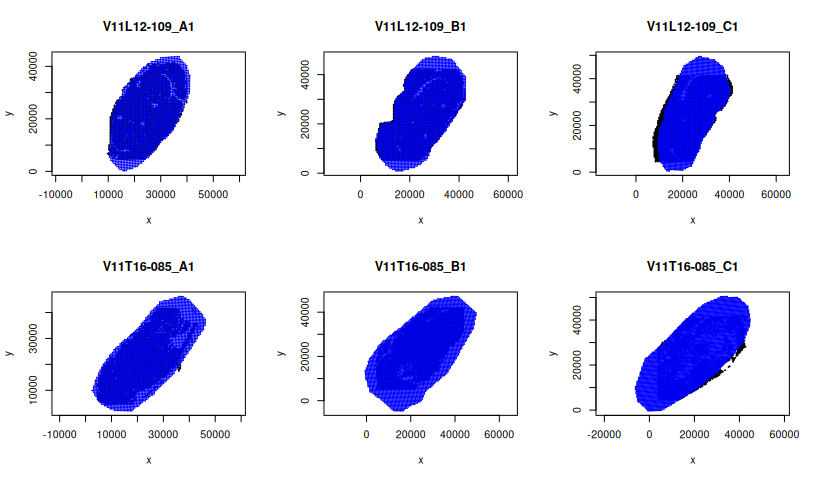
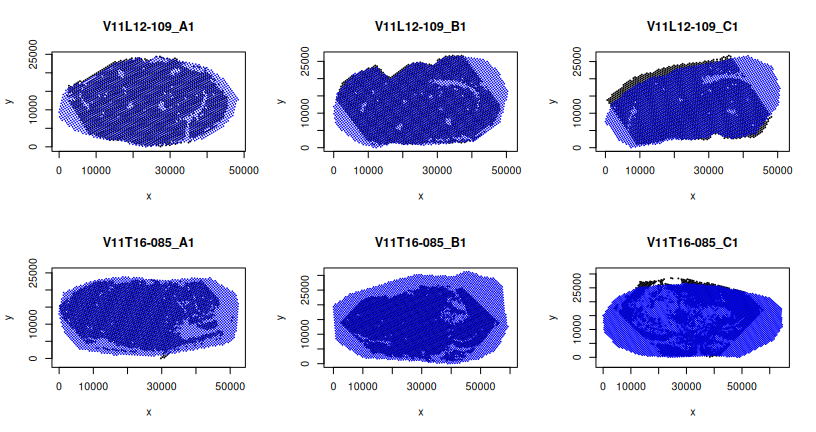
Modifying figure sizes

diff --git a/README.md b/README.md
@@ -95,19 +95,19 @@ head(moranRes$result)
 ```
 
     ##   Modality_X Modality_Y     Ixy_5e.06     Ixy_2e.04      Ixy_0.02 SE.Ixy._5e.06
-    ## 1     mt.Co1 X555.20345 -9.984208e-05 -6.517426e-05 -1.209285e-05  5.899893e-05
-    ## 2     mt.Co1 X555.20713 -1.000362e-04 -6.434524e-05 -1.153149e-05  5.937060e-05
-    ## 3     mt.Co3 X573.23369 -2.717639e-05 -2.516587e-05 -1.028394e-05  3.074321e-05
-    ## 4     mt.Co1 X573.23369 -2.185709e-05 -2.581689e-05 -7.749194e-06  2.965036e-05
-    ## 5     mt.Co2 X573.23369 -2.291890e-05 -2.431242e-05 -1.010922e-05  3.094869e-05
-    ## 6    mt.Atp6 X573.23369 -1.998723e-05 -2.527243e-05 -9.727530e-06  3.043709e-05
-    ##   SE.Ixy._2e.04 SE.Ixy._0.02      pVal     pAdj
-    ## 1  5.612845e-05 5.320337e-05 0.2571320 0.993726
-    ## 2  5.652231e-05 5.363631e-05 0.2700359 0.993726
-    ## 3  2.462482e-05 2.209417e-05 0.4345555 0.993726
-    ## 4  2.318742e-05 2.065942e-05 0.4718203 0.993726
-    ## 5  2.484135e-05 2.243004e-05 0.4774986 0.993726
-    ## 6  2.423177e-05 2.168803e-05 0.4808390 0.993726
+    ## 1       Pcp4   Dopamine  1.691068e-04  1.313399e-04  6.215548e-05  4.471070e-05
+    ## 2    mt.Atp6  Histidine  5.174945e-05  2.628488e-05  6.816206e-06  1.825502e-05
+    ## 3       Fth1  Histidine -1.456025e-05 -2.624468e-05 -1.000125e-05  1.823251e-05
+    ## 4       Pcp4  Histidine  2.981628e-05  1.236840e-05  3.038781e-06  1.823146e-05
+    ## 5       Fth1 Tocopherol -1.413589e-05 -1.422649e-05 -3.450981e-06  1.812031e-05
+    ## 6    mt.Atp6    Taurine  1.486419e-06  1.480923e-05  4.817983e-06  1.812031e-05
+    ##   SE.Ixy._2e.04 SE.Ixy._0.02         pVal       pAdj
+    ## 1  4.147731e-05 2.876564e-05 0.0004216507 0.01054127
+    ## 2  7.455806e-06 3.728807e-06 0.0011548134 0.01443517
+    ## 3  7.830945e-06 3.390757e-06 0.0019246076 0.01603840
+    ## 4  6.869515e-06 3.390383e-06 0.1167989515 0.43101376
+    ## 5  7.565471e-06 2.874446e-06 0.1361841917 0.43101376
+    ## 6  7.116155e-06 3.146162e-06 0.1462119192 0.43101376
 
 Plot the most significantly spatially associated gene-metabolite pair :
 
@@ -177,13 +177,13 @@ multiGAMLmmsRes <- extractResultsMulti(multiGAMLmms, design)
 head(multiGAMLmmsRes$result$Intercept)
 ```
 
-    ##   Modality_X Modality_Y    Estimate         SE      pVal      pAdj
-    ## 1     mt.Co3 X523.19829 -0.10048418 0.05975443 0.1534708 0.9158535
-    ## 2     mt.Co1 X523.19829  0.11585824 0.06982157 0.1579411 0.9158535
-    ## 3     mt.Co1 X555.20713  0.03733817 0.03145645 0.2885510 0.9158535
-    ## 4    mt.Cytb X555.20713 -0.02968372 0.02758507 0.3310510 0.9158535
-    ## 5    mt.Atp6 X555.20713  0.05759791 0.03349672 0.3353404 0.9158535
-    ## 6     mt.Co2 X573.23369  0.08397566 0.05757616 0.3826185 0.9158535
+    ##   Modality_X Modality_Y   Estimate         SE       pVal      pAdj
+    ## 1      Sparc Tocopherol -0.1969455 0.05512814 0.01600122 0.4000305
+    ## 2       Gnas Tocopherol  0.2058657 0.08376740 0.05739854 0.5648194
+    ## 3       Gnas       GABA  0.2549455 0.10973641 0.06777833 0.5648194
+    ## 4       Gnas  Histidine  0.2027837 0.11076368 0.12664093 0.7915058
+    ## 5       Fth1       GABA  0.4125944 0.19797769 0.28481526 0.9377581
+    ## 6       Gnas   Dopamine -0.2579455 0.15311234 0.34103084 0.9377581
 
 No features are significantly associated after multiplicity correction.
 For illustration, we plot the feature pair with the smallest p-values